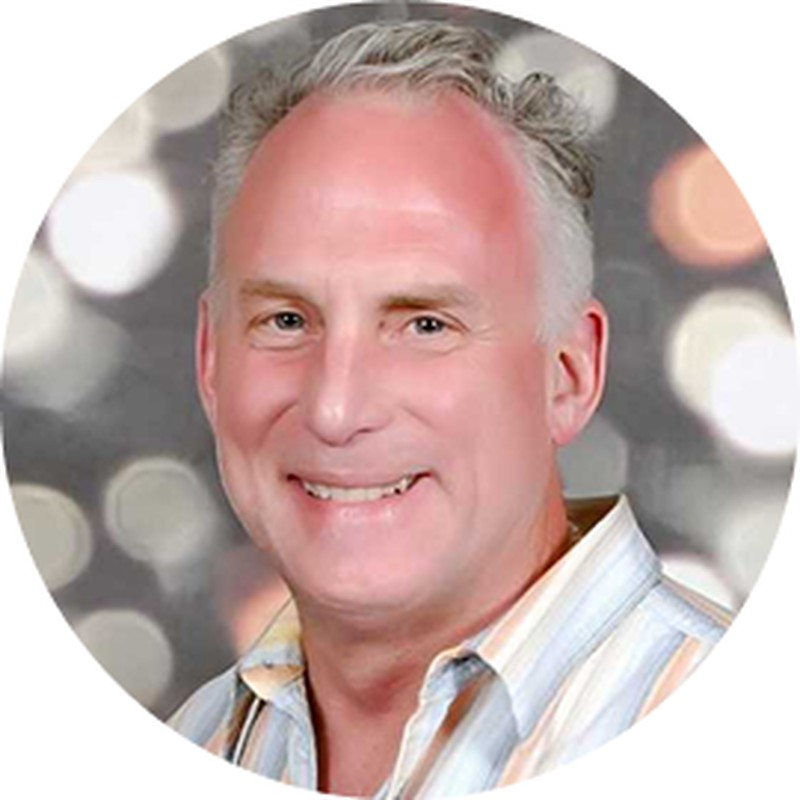
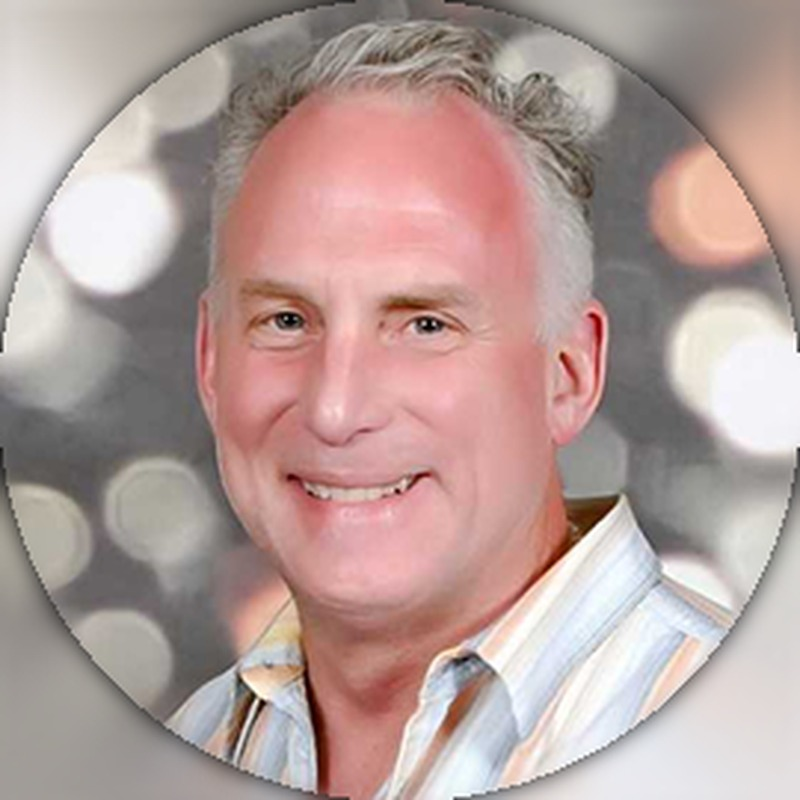
Restore static hero image, bump card heading sizes, fix Michael's photo
- Hero: switched back to the original static hero-saddle.jpg background
  instead of the shared video, since that video is already used across
  every other page.
- Bumped Core Values (17px -> 19px) and Approach step (15px -> 17px)
  card headings for readability, matching the sizing pass already done
  on Capital Raise and Website Development.
- Michael's source photo was a small 270x271 circular cutout with
  transparency outside the circle, which left flat white corners once
  placed in the square team-card frame. Used OpenCV inpainting (a
  downscale-inpaint-upscale pass, feathered back into the original) to
  extend the existing bokeh-light background into all four corners
  instead of leaving them blank.
- Swapped the CTA background off bg-hero-lake.png, which turned out to
  be the same mountain-lake photo as the restored hero image just
  re-graded - now uses hero-barn.webp so the two backgrounds on the
  page are actually different scenes.

diff --git a/src/app/about/page.tsx b/src/app/about/page.tsx
@@ -126,12 +126,10 @@ export default function AboutPage() {
     <main style={{ fontFamily: "var(--font-montserrat), sans-serif" }}>
 
       {/* ── HERO ───────────────────────────────────────────── */}
-      <section className="ab-hero-section" style={{ position: "relative", height: "100vh", minHeight: 600, overflow: "hidden" }}>
-        <video
-          src="/BI Video background.mp4"
-          autoPlay muted loop playsInline preload="auto"
-          style={{ position: "absolute", inset: 0, width: "100%", height: "100%", objectFit: "cover", objectPosition: "center 100%" }}
-        />
+      <section className="ab-hero-section" style={{
+        position: "relative", height: "100vh", minHeight: 600, overflow: "hidden",
+        backgroundImage: "url('/images/hero-saddle.jpg')", backgroundSize: "cover", backgroundPosition: "center",
+      }}>
         <div style={{ position: "absolute", inset: 0, background: "linear-gradient(180deg, rgba(8,16,36,0.35) 0%, rgba(8,16,36,0.25) 45%, rgba(8,16,36,0.65) 100%)" }} />
 
         <div className="ab-hero-wrap" style={{ position: "absolute", inset: 0, display: "flex", alignItems: "center", padding: "88px 24px 24px" }}>
@@ -293,7 +291,7 @@ export default function AboutPage() {
                 <div style={{ width: 46, height: 46, borderRadius: "50%", background: "rgba(216,115,7,0.1)", border: "1px solid rgba(216,115,7,0.25)", display: "flex", alignItems: "center", justifyContent: "center", marginBottom: 18 }}>
                   {icon}
                 </div>
-                <h3 style={{ fontFamily: "var(--font-burford-black), sans-serif", fontSize: 17, fontWeight: 900, textTransform: "uppercase", letterSpacing: "0.04em", color: "#1a1a1a", marginBottom: 10, lineHeight: 1.3, transition: "color 0.2s" }}>{title}</h3>
+                <h3 style={{ fontFamily: "var(--font-burford-black), sans-serif", fontSize: 19, fontWeight: 900, textTransform: "uppercase", letterSpacing: "0.03em", color: "#1a1a1a", marginBottom: 10, lineHeight: 1.3, transition: "color 0.2s" }}>{title}</h3>
                 <p style={{ fontFamily: "var(--font-montserrat), sans-serif", fontSize: 13.5, lineHeight: 1.7, color: "#666", margin: 0 }}>{body}</p>
               </div>
             ))}
@@ -425,7 +423,7 @@ export default function AboutPage() {
                 <div style={{ width: 40, height: 40, borderRadius: "50%", background: "rgba(216,115,7,0.15)", border: "1px solid rgba(216,115,7,0.3)", display: "flex", alignItems: "center", justifyContent: "center", marginBottom: 16 }}>
                   <span style={{ fontFamily: "var(--font-burford-black), sans-serif", fontWeight: 900, fontSize: 13, color: "#d87307" }}>{step}</span>
                 </div>
-                <h3 style={{ fontFamily: "var(--font-burford-black), sans-serif", fontSize: 15, fontWeight: 900, textTransform: "uppercase", letterSpacing: "0.04em", color: "#FFFFFF", marginBottom: 10, lineHeight: 1.3 }}>{title}</h3>
+                <h3 style={{ fontFamily: "var(--font-burford-black), sans-serif", fontSize: 17, fontWeight: 900, textTransform: "uppercase", letterSpacing: "0.03em", color: "#FFFFFF", marginBottom: 10, lineHeight: 1.3 }}>{title}</h3>
                 <p style={{ fontFamily: "var(--font-montserrat), sans-serif", fontSize: 12.5, lineHeight: 1.7, color: "rgba(255,255,255,0.6)", margin: 0 }}>{body}</p>
               </div>
             ))}
@@ -447,7 +445,7 @@ export default function AboutPage() {
         <div style={{ maxWidth: 1100, margin: "0 auto" }}>
           <div ref={ctaView.ref} className={`reveal${ctaView.inView ? ' visible' : ''}`} style={{
             position: "relative", overflow: "hidden", borderRadius: 20,
-            backgroundImage: "url('/images/bg-hero-lake.png')", backgroundSize: "cover", backgroundPosition: "center",
+            backgroundImage: "url('/images/hero-barn.webp')", backgroundSize: "cover", backgroundPosition: "center",
           }}>
             <div style={{ position: "absolute", inset: 0, background: "rgba(8,14,28,0.55)" }} />
             <div style={{ position: "relative", zIndex: 1, padding: "72px clamp(24px, 6vw, 48px)", textAlign: "center" }}>
